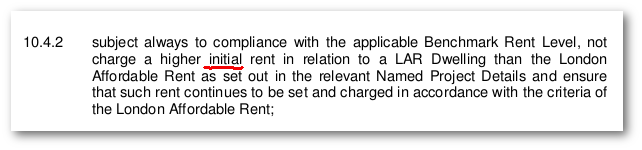
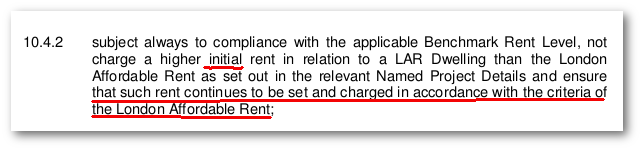
drawing board

Changed region(s): [[0.1246, 0.64, 0.9657, 0.6933], [0.1246, 0.7467, 0.4361, 0.8]]

diff --git a/redefining-social-rent.md b/redefining-social-rent.md
@@ -146,6 +146,7 @@ The new planning guidance also drops any requirement for social rented housing a
 
 ![](/img/mayorspgar.png)
 
+## London Affordable Rent
 To further muddy the already muddy waters, GLA Assembly Member and Labour housing spokesperson Tom Copley is [lobbying](http://tomcopley.com/response-mayors-draft-affordable-housing-viability-supplementary-planning-guidance/) for one of the Mayor's new affordable housing tenures, __London Affordable Rent__ to be renamed __London Social Rent__.  
 
 ![](/img/londonsocialrent.png)
@@ -156,7 +157,7 @@ Tom has [argued](https://twitter.com/tomcopley/status/842031557284118528) that _
 ![](/img/londonaffordablerent.png)
 *Policy definition from the Mayor's [funding programme guidance](https://www.london.gov.uk/sites/default/files/homesforlondoners-affordablehomesprogrammefundingguidance.pdf)*
 
-The Mayor's funding programme guidance makes it clear that __London Affordable Rent__ levels will be capped such that they cannot increase by more than CPI +1% per year, paragraph 11 also says that the tenure product will be governed in accordance with the _"Social Housing Regulator's Affordable Rent Guidance"_. The Social Housing Regulator is the Homes and Communities Agency and their Affordable Rent Guidance is in their [Rent Standard Guidance](https://www.gov.uk/government/publications/rent-standard-guidance) (pages 12-15).
+The Mayor's funding programme guidance makes it clear that __London Affordable Rent__ levels will be capped such that they cannot increase by more than CPI +1% per year, but paragraph 11 says that the tenure product will be governed in accordance with the _"Social Housing Regulator's Affordable Rent Guidance"_. The Social Housing Regulator is the Homes and Communities Agency and their Affordable Rent Guidance is in their [Rent Standard Guidance](https://www.gov.uk/government/publications/rent-standard-guidance) (pages 12-15).
 
 ![](/img/homesforlondonerslar.png)
 
@@ -165,42 +166,46 @@ Worryingly, page 13 of the Rent Standard Guidance says that Affordable Rent leve
 ![](/img/rsg.png)
 *Extract from the HCA's [Rent Standard Guidance](https://www.gov.uk/government/publications/rent-standard-guidance) for Affordable Rented tenure*
 
-Giles Peaker from Anthony Gold solicitors has rightly [pointed out](https://twitter.com/nearlylegal/status/885597479168876544) that the paragraph Mayor's funding programme guidance is not binding and that the devil is in the detail of the (legal) funding agreement. 
+Giles Peaker from Anthony Gold solicitors has rightly [pointed out](https://twitter.com/nearlylegal/status/885597479168876544) that paragraph 11 of the Mayor's funding programme guidance is not binding and that the devil is in the detail of the (legal) funding agreement. 
 
-GLA Housing Chief Jamie Ratcliff [responded](https://twitter.com/Jamrat_/status/885617818661773312) by providing a copy of the [standard form funding agreement](/img/standardformagreement2017.pdf). The small print of which brings raises some serious concerns. The paragraph relating to setting __London Affordable Rent__ (LAR) rent levels says that _"initial rents" will be set by the (near social-rent) benchmarks but "such rent continues to be set and charged in accordance with the criteria of the __London Affordable Rent__"._
+GLA Housing Chief Jamie Ratcliff [responded](https://twitter.com/Jamrat_/status/885617818661773312) by providing a copy of the GLA's [standard form funding agreement](/img/standardformagreement2017.pdf). The small print of which raises some serious concerns; the clause relating to the setting of __London Affordable Rent__ (LAR) rent levels, says that _"initial rents" will be set by the (near social-rent) benchmarks, but that "such rent continues to be set and charged in accordance with the criteria of the __London Affordable Rent__"._
 
 ![](/img/initialrent.png)
-*Extract from the GLA's standard form funding agreement*
+*Extract from the GLA's [Standard Form Funding Agreement](http://35percent.org/img/standardformagreement2017.pdf)*
 
-If we then take a look at the _"criteria of the __London Affordable Rent__"_ further on in the contract, we see that the LAR tenure product is to be governed _"in accordance with the applicable requirements of the Affordable Housing Capital Funding Guide, Legislation, the Rent Standard and any other relevant Guidance issued by the Regulator"_. 
+If we then take a look at the said _"criteria of the __London Affordable Rent__"_ further on in the contract, we see that the tenure is to be governed _"in accordance with the applicable requirements of the Affordable Housing Capital Funding Guide, Legislation, the Rent Standard and any other relevant Guidance issued by the Regulator"_. 
 
 ![](/img/ahcfg.png)
-*Extract from the GLA's standard form funding agreement*
+*Extract from the GLA's [Standard Form Funding Agreement](http://35percent.org/img/standardformagreement2017.pdf)*
 
-Not only does it reference the HCA's Rent Standard Guidance that we have already mentioned, but it references the government's [Affordable Housing Capital Funding Guide](https://www.gov.uk/guidance/capital-funding-guide/4-housing-for-rent#rent-reviews) which says this:
+Not only does the criteria reference the HCA's Rent Standard Guidance that we have already mentioned, but it references the government's [Affordable Housing Capital Funding Guide](https://www.gov.uk/guidance/capital-funding-guide/4-housing-for-rent#rent-reviews) which says this:
 
 ![](/img/rentreviews.png)
-*Extract from the government's Affordable Housing Capital Funding Guide*
+*Extract from the government's [Affordable Housing Capital Funding Guide](https://www.gov.uk/guidance/capital-funding-guide/4-housing-for-rent#rent-reviews)*
 
-Not only is this crystal clear on how rents can be rebased to 80% market rent on relet but it also states that the tenure is governed by the _" will be subject to requirements of the Welfare Reform and Work Act 2016 and regulations made under it."_.  
+Not only is this crystal clear on how rents can be rebased to 80% market rent on relet, but it also states that the tenure _" will be subject to requirements of the Welfare Reform and Work Act 2016 and regulations made under it."_.  
+
+So from the details we have so far it would appear that there is nothing in the GLA's funding agreement that would stop a housing association from issuing a fixed term tenancy on a London Affordable Rent home and then racking up the rent to 80% market at the end of the tenancy? 
 
 Jamie Ratcliff's response is that the Capital Funding Guidance _'hasn't been updated yet'_ and that it and the GLA's standard form funding agreement will be updated to _'be clear that benchmarks act as caps in perpetuity'_
 
-Given that the Standard Form Agreement is current 2017 and specific to this funding programme, why is it that the word perpetuity wasn't written into it in the first place?
+Given that the [Standard Form Agreement](http://35percent.org/img/standardformagreement2017.pdf) is current 2017 and specific to this funding programme, why is it that the word perpetuity wasn't written into it in the first place? and why is it silent on relets?
 
-When will the Standard Form Agreement be updated?
+![](/img/fa2017.png)
+*The GLA's Standard Form Funding Agreement for AHP 2016-21 - dated 2017*
 
-When will the Capital Funding Guidance be updated?
+With 17,500 new __London Affordable Rent__ homes proposed in the Mayor's new [£17bn deal to build 'affordable' homes](http://www.standard.co.uk/news/mayor/sadiq-khan-announces-17bn-deal-to-build-50000-affordable-homes-across-london-a3586911.html) across London, many questions remain unanswered:
 
-How will the GLA ensure that the govt agrees to insert the perpetuity guarantee for London Affordable Rent? 
+ * When will the Standard Form Agreement be updated to include the guarantee of perpetuity?
 
-Will the GLA publish the individual details? - i.e. NHHT's agreement for the Aylesbury? 
+ * Why has no perpetuity clause been included from the outset? 
 
-http://www.standard.co.uk/news/mayor/sadiq-khan-announces-17bn-deal-to-build-50000-affordable-homes-across-london-a3586911.html
-17,500 LAR
-80% of which at Benchmark Rents - but what Benchmarks?
+ * When will the Capital Funding Guidance be updated to insert the perpetuity guarantee?
 
-Fixed grant rates of £60k per home
-Represents 10% of build/provision cost
+ * How will the GLA ensure that the Tory-run DCLG/HCA agrees to this? 
 
-All in all, the Mayor's new affordable housing policy does nothing but further confuse affordable housing terminology, while reducing the policy requirement for social rented housing and allowing it to be substituted by other tenures. We have submitted a detailed response to the Mayor's policy proposals in which we are asking him to go back to the drawing board - you can [read it here.](https://justspacelondon.files.wordpress.com/2017/02/affordable-hsg-spg-35-response-draft.pdf) 
+ * Will the GLA publish the individual details? - i.e. NHHT's individual agreements with Benchmark Rent Levels for specific schemes like the Aylesbury? It has rejected FOI requests for such agreements in the past on the basis of 'commercial confidentiality'. 
+
+If the perpetuity guarantees are not inserted then the Mayor's new London Affordable Rent will prove a quick and temporary fix to the housing crisis that will last only as long as the fixed term tenancies issued under this tenure. 
+
+Furthermore, the Mayor's new affordable housing policy does nothing but further confuse affordable housing terminology, while reducing the policy requirement for social rented housing and allowing it to be substituted by other tenures. Here's our detailed response submitted in response to the Mayor's policy proposals earlier this year. We asked him to go back to the drawing board - you can [read it here.](https://justspacelondon.files.wordpress.com/2017/02/affordable-hsg-spg-35-response-draft.pdf) 
